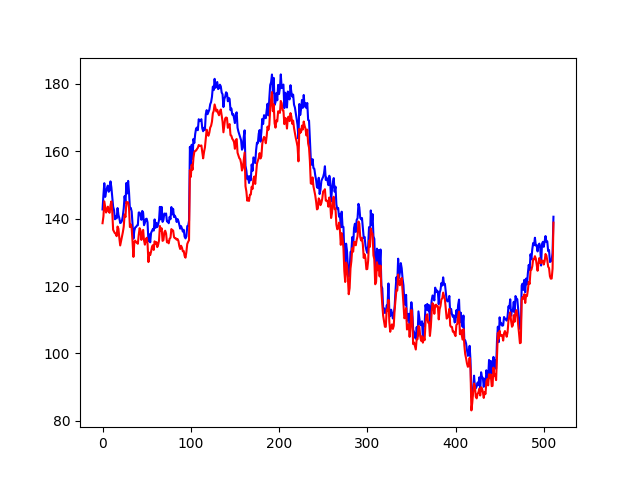
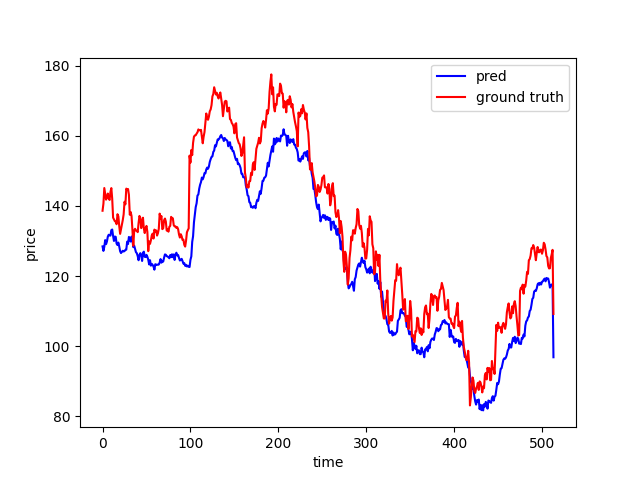
can now fit testing set

diff --git a/train.py b/train.py
@@ -22,14 +22,17 @@ def main(args):
 
 
     stock_net = model.StockNet(in_features=args.in_features, out_features=args.out_features).to(device)
-    optimizer = optim.RMSprop(stock_net.parameters(), lr=args.lr)
+    optimizer = optim.RMSprop(stock_net.parameters(), lr=args.lr, weight_decay=args.weight_decay)
     criterion = nn.MSELoss()
 
     for epoch in range(args.epochs):
         train_loss = train(args, train_loader, stock_net, optimizer, criterion)
-        print(f'epoch: {epoch}, avg_loss: {train_loss * args.batch_size / len(train_set)}')
+        test_loss = test(args, test_loader, stock_net, criterion)
+        error_log(train_loss, test_loss, epoch)
+        
 
-        test(args, test_loader, stock_net)
+def error_log(train_loss, test_loss, epoch):
+    print(f'epoch: {epoch}, train_loss: {train_loss}, test_loss: {test_loss}')
 
 def train(args, train_loader, stock_net, optimizer, criterion):
     total_loss = 0
@@ -39,14 +42,13 @@ def train(args, train_loader, stock_net, optimizer, criterion):
 
         high_low_diffs = features.high_low_diff
         close_open_diffs = features.close_open_diff
-        # MA_7d = features.MAs.MA_7d
-        # MA_14d = features.MAs.MA_14d
-        # MA_21d = features.MAs.MA_21d
-        close = features.close
+        MA_7d = features.MAs.MA_7d
+        MA_14d = features.MAs.MA_14d
+        MA_21d = features.MAs.MA_21d
         std = features.std
-        volume = features.volume
+        close = features.close
 
-        input = torch.stack((high_low_diffs, close_open_diffs, close, std)).float().to(device)
+        input = torch.stack((high_low_diffs, close_open_diffs, std, MA_7d, MA_14d, MA_21d)).float().to(device)
         input = torch.transpose(input, 0, 1)
 
         output = stock_net(input).squeeze()
@@ -60,35 +62,44 @@ def train(args, train_loader, stock_net, optimizer, criterion):
     return total_loss
     
 
-def test(args, test_loader, stock_net):
+def test(args, test_loader, stock_net, criterion):
     predictions = []
     ground_truths = []
+    total_loss = 0
     with torch.no_grad():
         for batch in test_loader:
             features, y = batch
+            y = y.float().to(device)
+
             high_low_diffs = features.high_low_diff
             close_open_diffs = features.close_open_diff
-            # MA_7d = features.MAs.MA_7d
-            # MA_14d = features.MAs.MA_14d
-            # MA_21d = features.MAs.MA_21d
+            MA_7d = features.MAs.MA_7d
+            MA_14d = features.MAs.MA_14d
+            MA_21d = features.MAs.MA_21d
             std = features.std
             close = features.close
-            volume = features.volume
 
-            input = torch.stack((high_low_diffs, close_open_diffs, close, std)).float().to(device)
+            input = torch.stack((high_low_diffs, close_open_diffs, std, MA_7d, MA_14d, MA_21d)).float().to(device)
             input = torch.transpose(input, 0, 1)
-
-
             output = stock_net(input).squeeze()
+
+            total_loss += criterion(output, y)
+
             for prediction in output:
                 predictions.append(prediction.item())
             for truth in y:
-                ground_truths.append(truth)
+                ground_truths.append(truth.to('cpu'))
 
-    plt.plot(predictions, color='blue')
-    plt.plot(ground_truths, color='red')
+    x = [i for i in range(len(predictions))]
+    plt.plot(x, predictions, color='blue', label='pred')
+    plt.plot(x, ground_truths, color='red', label='ground truth')
+    plt.legend(loc='best')
+    plt.ylabel('price')
+    plt.xlabel('time')
     plt.savefig('result.png')
     plt.clf()
+
+    return total_loss
 
 
 
@@ -105,15 +116,16 @@ if __name__ == '__main__':
     parser.add_argument('--training_start', type=str, default='2011-01-01')
     parser.add_argument('--training_end', type=str, default='2020-12-31')
     parser.add_argument('--test_start', type=str, default='2021-01-01')
-    parser.add_argument('--test_end', type=str, default='2023-02-14')
+    parser.add_argument('--test_end', type=str, default='2023-02-16')
 
 
     # training related arguments
     parser.add_argument('--batch_size', '-b', type=int, default=64)
     parser.add_argument('--epochs', '-e', type=int, default=1000)
-    parser.add_argument('--in_features', type=int, default=4)
+    parser.add_argument('--in_features', type=int, default=6)
     parser.add_argument('--out_features', type=int, default=1)
-    parser.add_argument('--lr', type=float, default=1e-2)
+    parser.add_argument('--lr', type=float, default=1e-3)
+    parser.add_argument('--weight_decay', type=float, default=1e-4)
 
     args = parser.parse_args()
     args.MA_intervals = [int(interval) for interval in args.MA_intervals]

diff --git a/model.py b/model.py
@@ -6,7 +6,9 @@ class StockNet(nn.Module):
 
 
         self.net =  nn.Sequential(
-            nn.Linear(in_features, 256),
+            nn.Linear(in_features, 512),
+            nn.ReLU(),
+            nn.Linear(512, 256),
             nn.ReLU(),
             nn.Linear(256, 64),
             nn.ReLU(),
